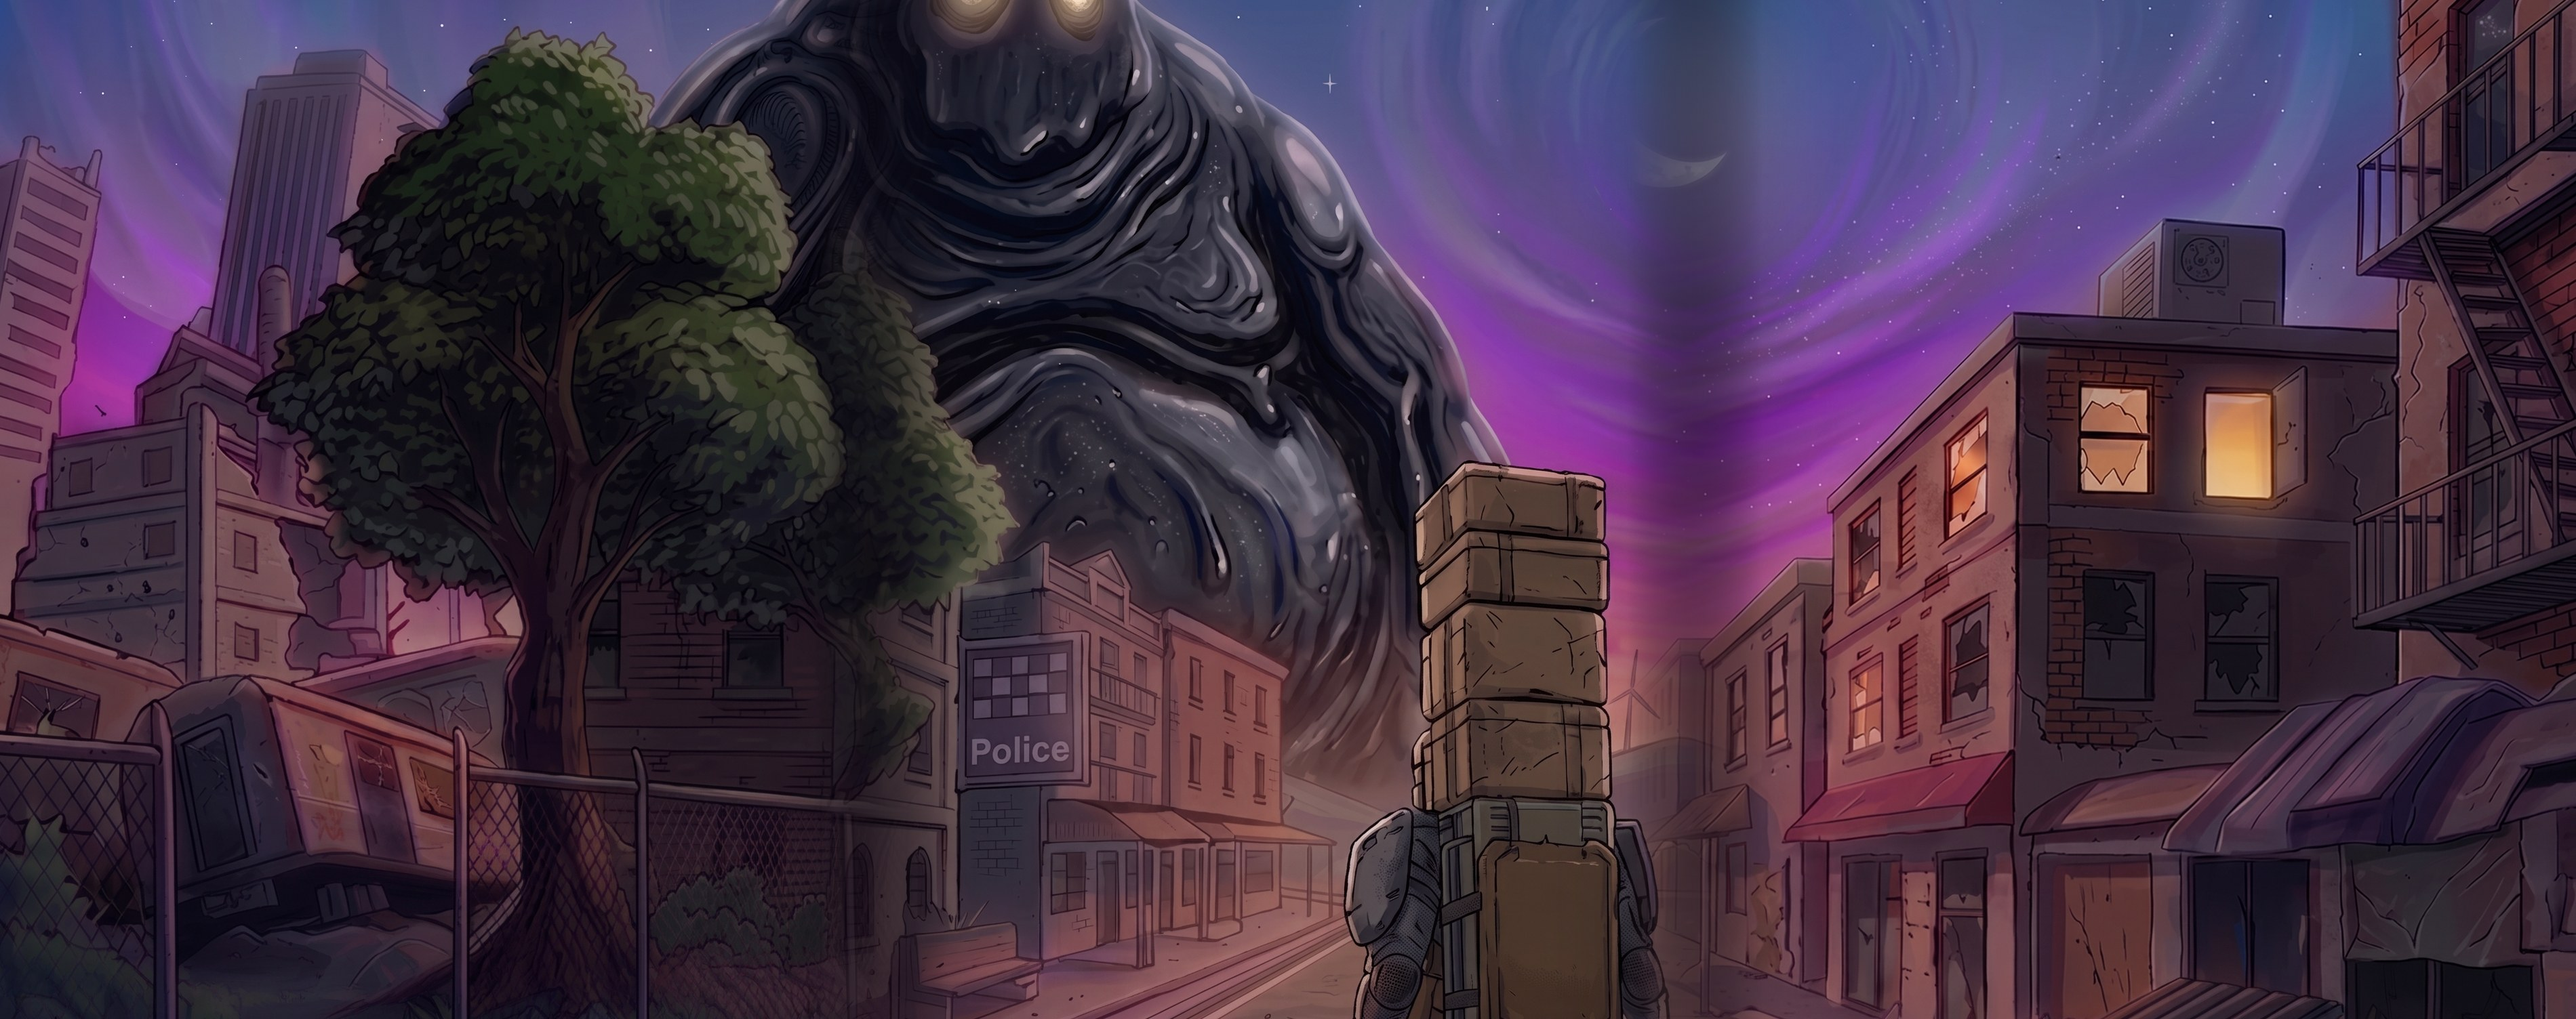
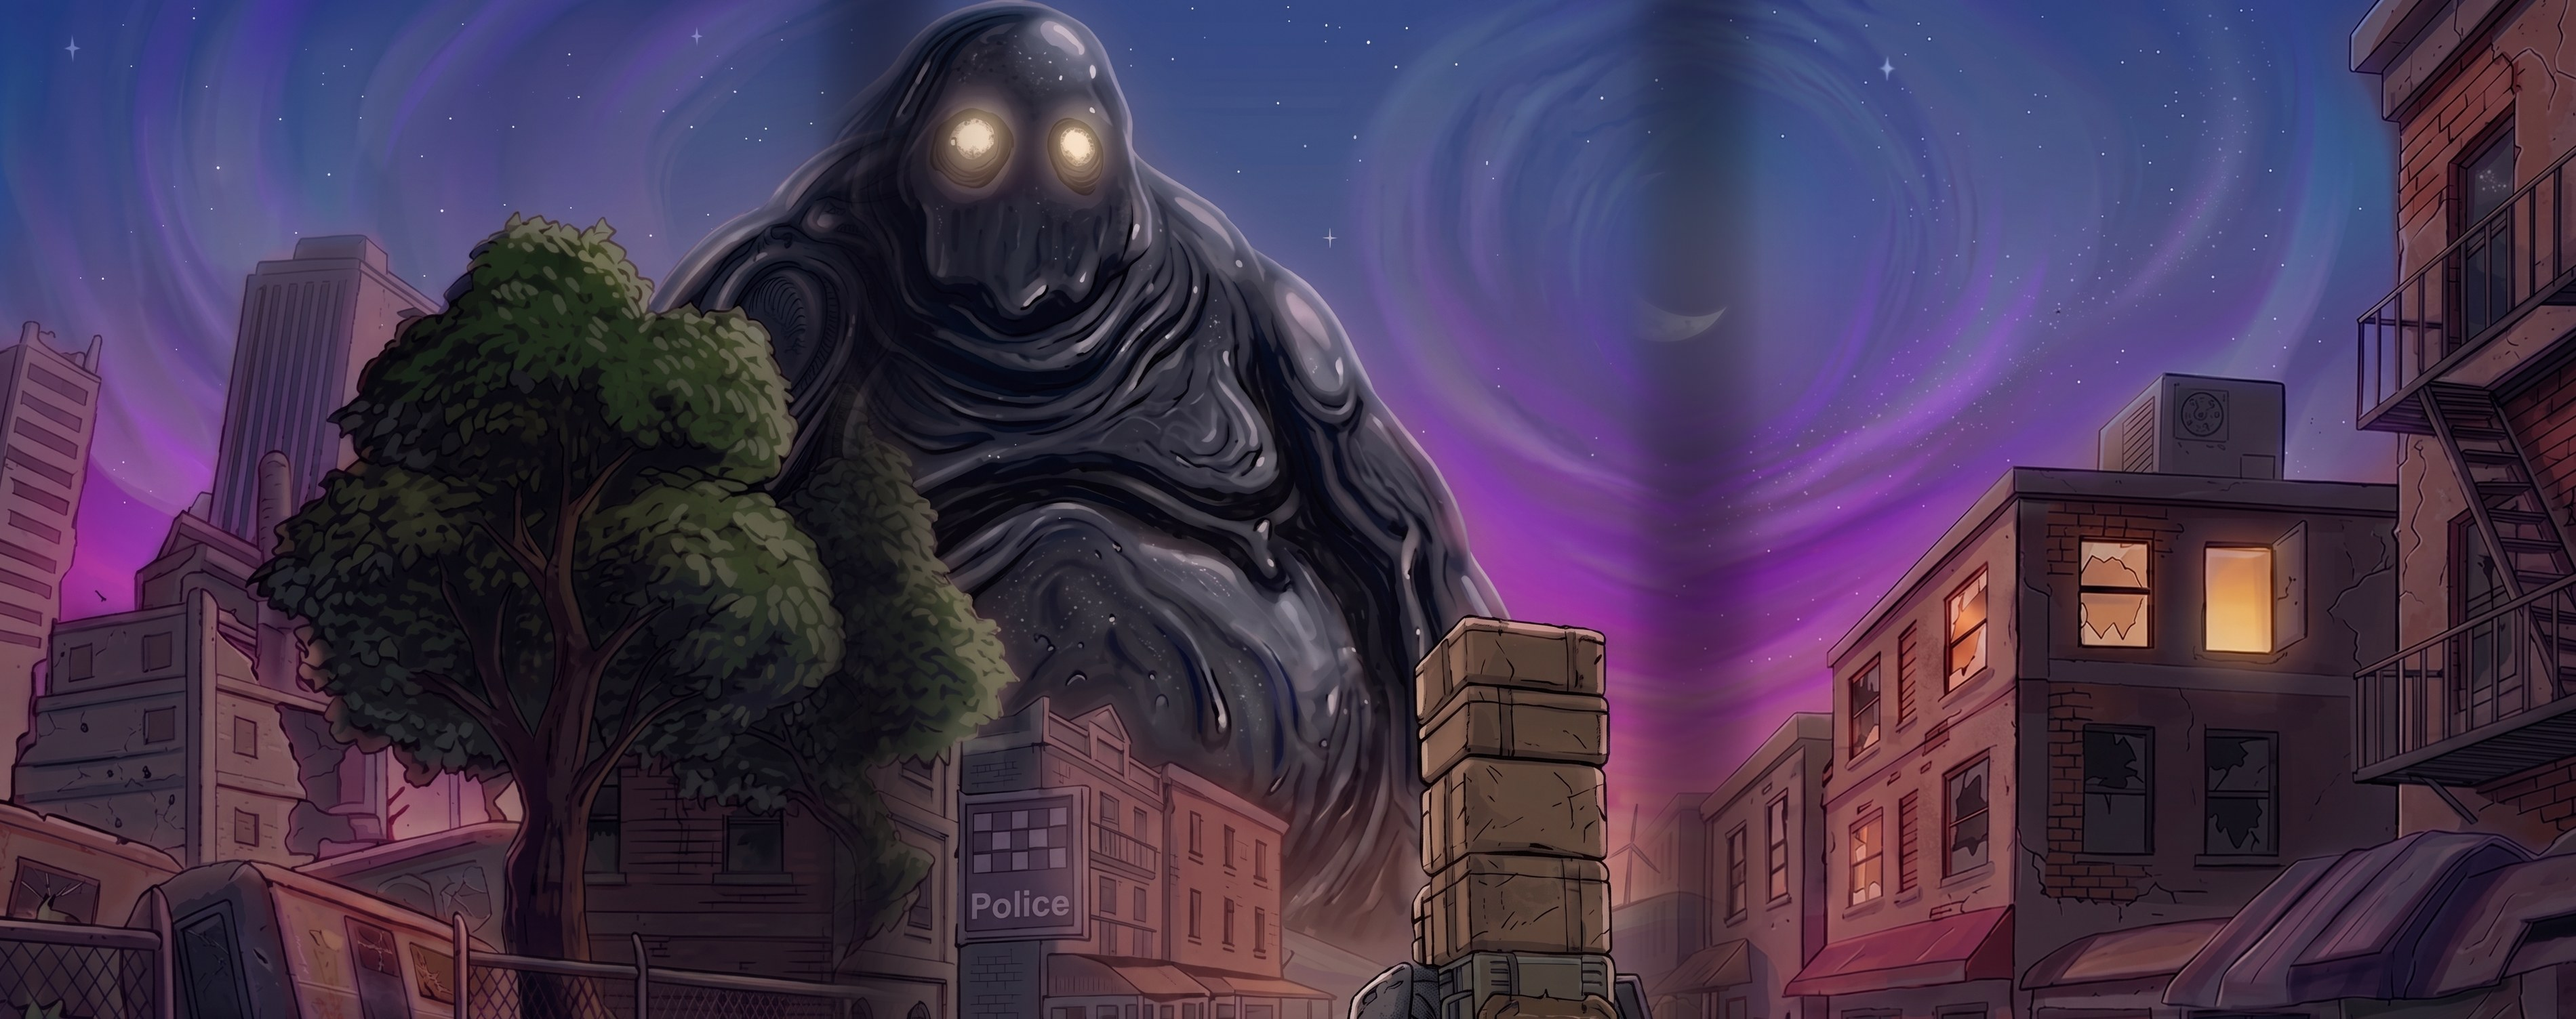
Revert hero frame shrink/reposition; re-crop header.jpg to shift scene content up

diff --git a/index.html b/index.html
@@ -24,7 +24,7 @@
     position:absolute; inset:0; z-index:0; overflow:hidden;
   }
   .hero .frame img{
-    position:absolute; top:-13.2%; left:6.8%; width:86.4%; height:86.4%; object-fit:cover; object-position:50% 30%;
+    position:absolute; inset:-4%; width:108%; height:108%; object-fit:cover; object-position:50% 30%;
     filter:saturate(.92) contrast(1.03);
     transform:scale(1.05) translateX(3%);
     transition:transform 3.4s cubic-bezier(.19,1,.22,1);
